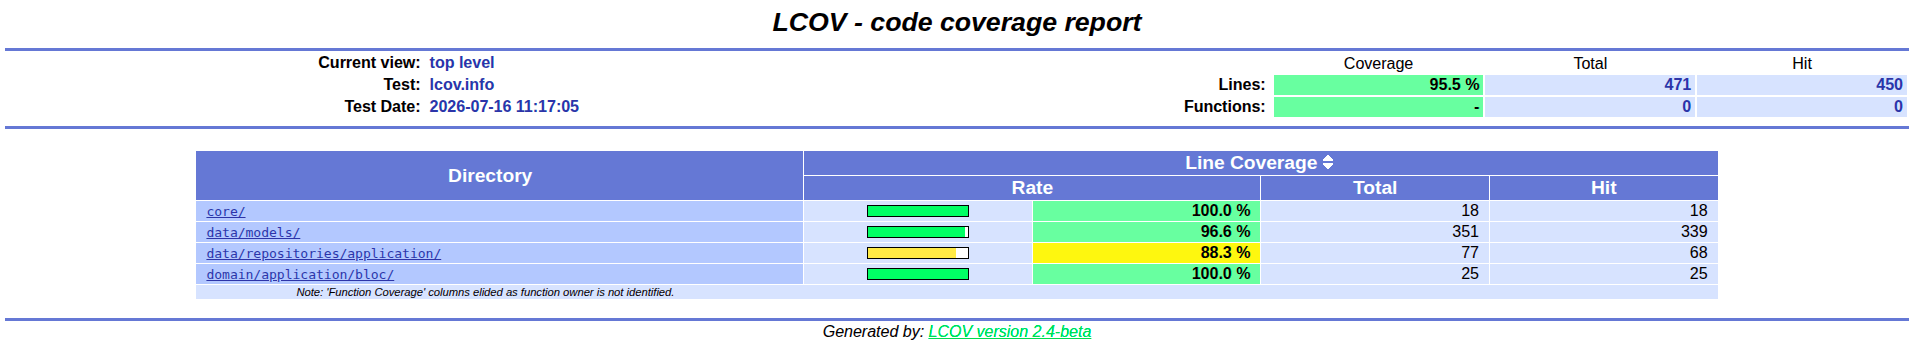
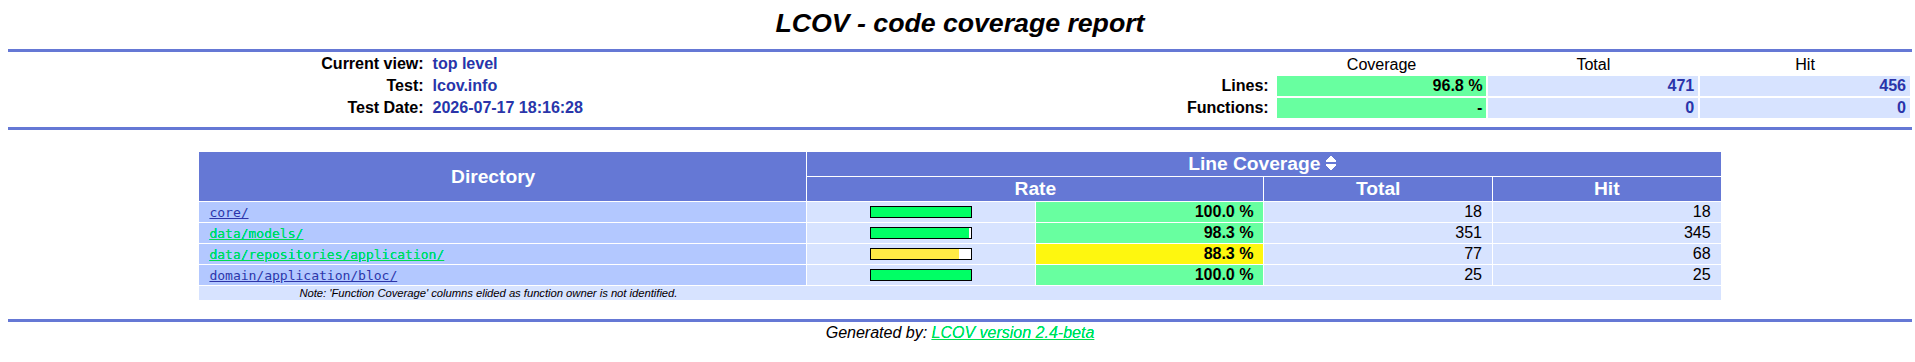
Improve Tests

Changed region(s): [[0.0, 0.4035, 1.0, 0.9798], [0.0, 0.0288, 1.0, 0.3746]]

diff --git a/test/data/repositories/application_repository_test.dart b/test/data/repositories/application_repository_test.dart
@@ -16,7 +16,7 @@ void main() {
           'test/data/applications',
         ]);
 
-        expect(applications.length, 6);
+        expect(applications.length, 7);
 
         /// TEST 0
         final test0 = applications.firstWhere(
@@ -58,28 +58,58 @@ void main() {
         expect(test3.exec, 'ls');
         expect(test3.tryExec, null);
         expect(test3.type, 'Application');
-        expect(test3.actions, ['Action1']);
+        expect(test3.actions, ['Action1', 'Action2']);
         expect(test3.actions!.length, test3.desktopActions!.length);
         expect(test3.desktopNames, null);
 
         expect(test3.localizedName, {
-          'en': 'Test English',
-          'ru': 'Тест Русский',
-          'ar': 'اختبار عربي',
-          'zh_CN': '测试中文',
-          'zh_TW': '測試中文',
-          'fr': 'Test French',
+          'en': 'Test - English',
+          'ru': 'Тест - Русский',
+          'ar': 'اختبار - العربية',
+          'zh_CN': '测试 - 中文',
+          'zh_TW': '测试 - 中文',
+          'ko': '테스트 - 한국의',
+          'jp': 'テスト - 日本語',
+          'es': 'Test - Español',
+          'it': 'Test - Italiano',
+          'pt': 'Test - Português',
+          'de': 'Test - Deutsch',
+          'wo': 'Test - Wolof',
         });
         expect(test3.desktopActions, <DesktopAction>[
           const DesktopAction(
             name: 'Action 1',
             localizedName: {
               'en': 'Action 1 EN',
-              'ru': 'Действие 1 РУ',
-              'ar': '1 إجراء',
-              'zh_CN': '動作中文',
-              'zh_TW': '動作中文',
-              'fr': 'Action 1 FR',
+              'ru': 'Действие 1 RU',
+              'ar': 'الإجراء 1 AR',
+              'zh_CN': '行动 1 zh_CN',
+              'zh_TW': '行动 1 zh_TW',
+              'ko': '액션1 KO',
+              'jp': 'アクション1 JP',
+              'es': 'Acción 1 ES',
+              'it': 'Azione 1 IT',
+              'pt': 'Ação 1 PT',
+              'de': 'Aktion 1 DE',
+              'wo': 'Jëf 1 WO',
+            },
+            exec: 'ls',
+          ),
+          const DesktopAction(
+            name: 'Action 2',
+            localizedName: {
+              'en': 'Action 2 EN',
+              'ru': 'Действие 2 RU',
+              'ar': 'الإجراء 2 AR',
+              'zh_CN': '行动 2 zh_CN',
+              'zh_TW': '行动 2 zh_TW',
+              'ko': '액션2 KO',
+              'jp': 'アクション2 JP',
+              'es': 'Acción 2 ES',
+              'it': 'Azione 2 IT',
+              'pt': 'Ação 2 PT',
+              'de': 'Aktion 2 DE',
+              'wo': 'Jëf 2 WO',
             },
             exec: 'ls',
           ),
@@ -107,6 +137,47 @@ void main() {
         expect(test5.icon, null);
         expect(test5.type, 'Application');
         expect(test5.desktopNames, null);
+
+        /// TEST 6
+        final test6 = applications.firstWhere(
+          (app) => app.name.startsWith('Test 6'),
+        );
+        expect(test6.exec, 'test');
+        expect(test6.tryExec, 'test');
+        expect(test6.desktopActions, null);
+        expect(test6.icon, '');
+        expect(test6.type, 'Application');
+        expect(test6.desktopNames, ['Test', 'Test']);
+        expect(test6.genericName, 'Generic name');
+        expect(test6.comment, 'Comments');
+        expect(test6.localizedGenericName, {
+          'en': 'Generic name - English',
+          'ru': 'Родовое название - Русский',
+          'ar': 'الاسم العام - العربية',
+          'zh_CN': '通用名称 - 中文',
+          'zh_TW': '通用名稱 - 中文',
+          'ko': '일반 이름 - 한국의',
+          'jp': '一般名前 - 日本語',
+          'es': 'Nombre genérico - Español',
+          'it': 'Nome generico - Italiano',
+          'pt': 'Nome genérico - Português',
+          'de': 'Generischer Name - Deutsch',
+          'wo': 'Tur generik - Wolof',
+        });
+        expect(test6.localizedComment, {
+          'en': 'Comments - English',
+          'ru': 'Комментарии - Русский',
+          'ar': 'تعليقات - العربية',
+          'zh_CN': '评论 - 中文',
+          'zh_TW': '评论 - 中文',
+          'ko': '댓글 - 한국의',
+          'jp': 'コメント - 日本語',
+          'es': 'Comentarios - Español',
+          'it': 'Commenti - Italiano',
+          'pt': 'Comentários - Português',
+          'de': 'Kommentare - Deutsch',
+          'wo': 'Komànteer - Wolof',
+        });
       });
 
       test('with missing directory', () async {

diff --git a/test/data/models/desktop_action_test.dart b/test/data/models/desktop_action_test.dart
@@ -70,6 +70,26 @@ void main() {
       expect(copied.name, 'name_test');
       expect(copied.icon, 'icon_test');
       expect(copied.exec, null);
+
+      final copied2 = copied.copyWith(name: 'name_test2');
+      expect(copied2.name, 'name_test2');
+      expect(copied2.icon, 'icon_test');
+
+      final copied3 = copied2.copyWith(exec: 'exec_test');
+      expect(copied3.name, 'name_test2');
+      expect(copied3.icon, 'icon_test');
+      expect(copied3.exec, 'exec_test');
+
+      final copied4 = copied3.copyWith(localizedName: {'en': 'en_test'});
+      expect(copied4.name, 'name_test2');
+      expect(copied4.icon, 'icon_test');
+      expect(copied4.exec, 'exec_test');
+      expect(copied4.localizedName, {'en': 'en_test'});
+
+      expect(
+        action.copyWith(),
+        action,
+      );
     });
   });
 }

diff --git a/test/data/models/application_desktop_entry_test.dart b/test/data/models/application_desktop_entry_test.dart
@@ -144,6 +144,21 @@ void main() {
       expect(copied.name, 'name_test2');
       expect(copied.type, 'type_test');
       expect(copied.icon, null);
+
+      final copied2 = copied.copyWith(type: 'type_test2');
+      expect(copied2.name, 'name_test2');
+      expect(copied2.type, 'type_test2');
+      expect(copied2.icon, null);
+
+      final copied3 = application.copyWith();
+      expect(copied3.name, 'name_test');
+      expect(copied3.type, 'type_test');
+      expect(copied3.icon, null);
+
+      expect(
+        application.copyWith(),
+        application,
+      );
     });
   });
 }

diff --git a/test/data/models/directory_desktop_entry_test.dart b/test/data/models/directory_desktop_entry_test.dart
@@ -115,6 +115,21 @@ void main() {
       expect(copied.name, 'name_test2');
       expect(copied.type, 'type_test');
       expect(copied.icon, null);
+
+      final copied2 = copied.copyWith(type: 'type_test2');
+      expect(copied2.name, 'name_test2');
+      expect(copied2.type, 'type_test2');
+      expect(copied2.icon, null);
+
+      final copied3 = directory.copyWith();
+      expect(copied3.name, 'name_test');
+      expect(copied3.type, 'type_test');
+      expect(copied3.icon, null);
+
+      expect(
+        directory.copyWith(),
+        directory,
+      );
     });
   });
 }

diff --git a/test/data/models/link_desktop_entry_test.dart b/test/data/models/link_desktop_entry_test.dart
@@ -131,6 +131,21 @@ void main() {
       expect(copied.name, 'name_test2');
       expect(copied.type, 'type_test');
       expect(copied.url, 'url_test');
+
+      final copied2 = copied.copyWith(type: 'type_test2');
+      expect(copied2.name, 'name_test2');
+      expect(copied2.type, 'type_test2');
+      expect(copied2.url, 'url_test');
+
+      final copied3 = link.copyWith();
+      expect(copied3.name, 'name_test');
+      expect(copied3.type, 'type_test');
+      expect(copied3.url, 'url_test');
+
+      expect(
+        link.copyWith(),
+        link,
+      );
     });
   });
 }